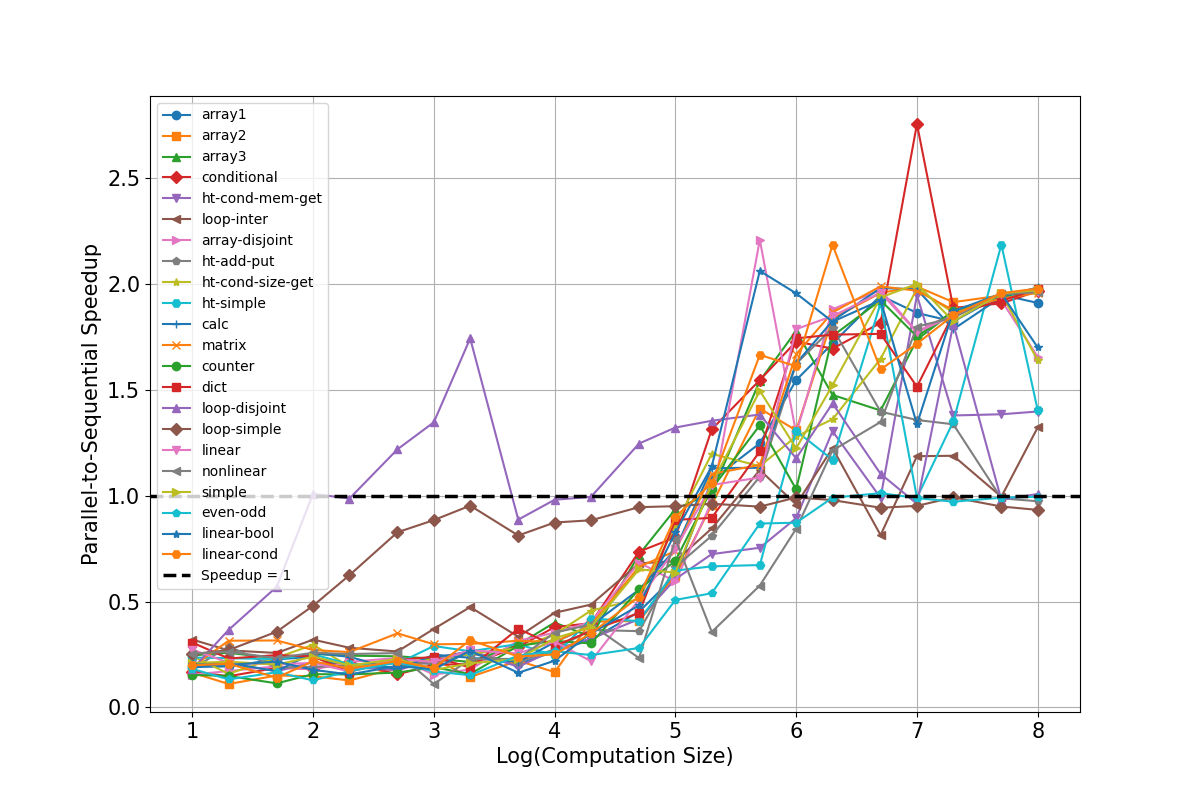
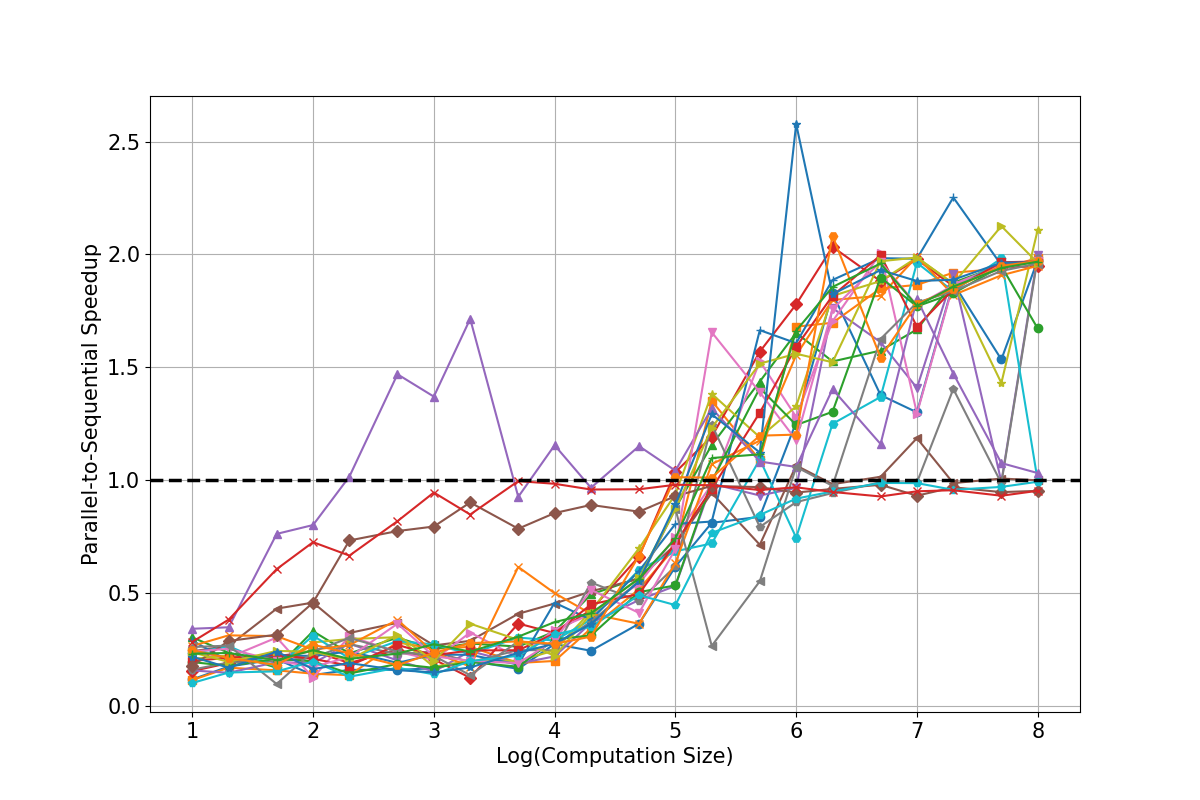
veracity plot

Changed region(s): [[0.0925, 0.125, 0.8942, 0.875], [0.6475, 0.1562, 0.6783, 0.2812], [0.0925, 0.875, 0.1233, 0.9062]]

diff --git a/reports/speedup_gen_veracity.py b/reports/speedup_gen_veracity.py
@@ -71,18 +71,16 @@ benchmarks : List[Benchmark] = [
     ("benchmarks/global_commutativity/veracity/nonlinear.vcy", lambda n : [str(n), str(1), str(2), str(3), str(0)]), # TODO: Inference times out with valid condition
     ("benchmarks/global_commutativity/veracity/simple.vcy", lambda n : [str(n), str(1), str(2), str(3), str(4), str(5)]),
     ("benchmarks/global_commutativity/veracity/even-odd.vcy", lambda n : [str(n), str(69), str(42)]),
-     ("benchmarks/global_commutativity/veracity/linear-bool.vcy", lambda n : [str(n), str(3), str(42)]),
+    ("benchmarks/global_commutativity/veracity/linear-bool.vcy", lambda n : [str(n), str(3), str(42)]),
     ("benchmarks/global_commutativity/veracity/linear-cond.vcy", lambda n : [str(n), str(1), str(2), str(3)]),
-
-    # ("benchmarks/manual/ht-fizz-buzz.vcy", lambda n : [str(n)]),
-    
-
+    # ("benchmarks/global_commutativity/veracity/ht-fizz-buzz.vcy", lambda n : [str(n)]),
+    ("benchmarks/global_commutativity/veracity/dot-product.vcy", lambda n : [str(n), str(1), str(2), str(3), str(4)]),
+    ("benchmarks/global_commutativity/veracity/loop-amt.vcy", lambda n : [str(n), str(1)]),
 
 
     # ("benchmarks/inference_output/counter-busywait.vcy", lambda n : [str(n)]),
     # ("benchmarks/inference_output/counter-busy-asym.vcy", lambda n : [str(n)]),
-    # ("benchmarks/inference_output/dot-product.vcy", lambda n : [str(n), str(1), str(2), str(3), str(4)]),
-   
+
    
     # ("benchmarks/inference_output/load-balancing.vcy", lambda n : [str(n//4)]),
     

diff --git a/reports/speedup_plot_veracity.py b/reports/speedup_plot_veracity.py
@@ -12,6 +12,7 @@ directory = sys.argv[1]
 
 input_csv_file = os.path.join(directory, 'ratio.csv')
 output_plot_file = os.path.join(directory, 'speedup-plot.png')
+output_plot_file_apx = os.path.join(directory, 'speedup-plot-apx.png')
 
 if not os.path.exists(input_csv_file):
     print(f"Error: {input_csv_file} does not exist.")
@@ -42,9 +43,11 @@ plt.yticks(fontsize=15)
 
 plt.xlabel('Log(Computation Size)', fontsize=15)
 plt.ylabel('Parallel-to-Sequential Speedup', fontsize=15)
-plt.legend()
 plt.grid(True)
 
 plt.savefig(output_plot_file)
+
+plt.legend()
+plt.savefig(output_plot_file_apx)
 
 print(f"Plot saved successfully at {output_plot_file}")
